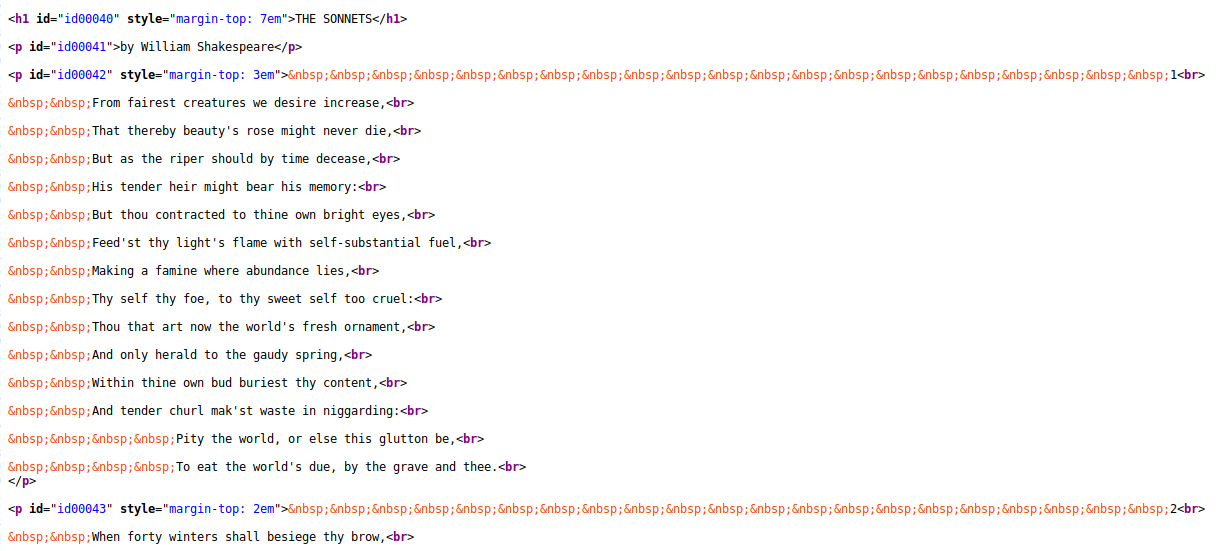
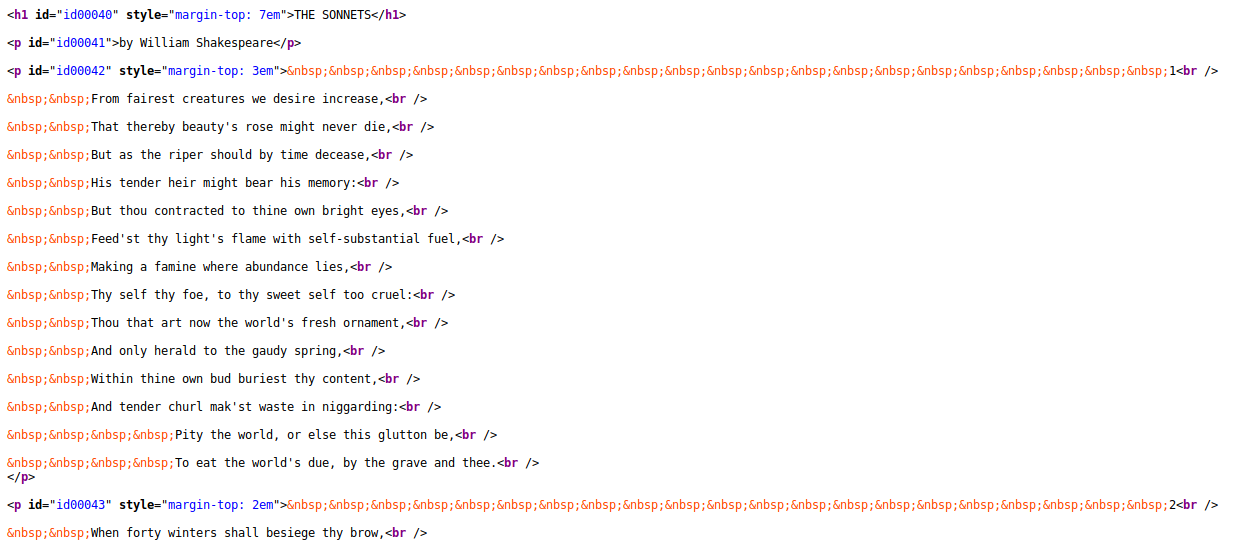
openrefine: edits, screenshot added re @ljlow review

diff --git a/lessons/fetch-and-parse-data-with-openrefine.md b/lessons/fetch-and-parse-data-with-openrefine.md
@@ -20,6 +20,8 @@ Examples introduce some of the advanced features to transform and enhance a data
 - parse HTML and JSON responses to extract relevant data
 - use array functions to manipulate string values
 
+It will be helpful to have basic familiarity with OpenRefine, HTML, and programming concepts to complete this lesson.
+
 ## Why Use OpenRefine?
 
 The ability to create data sets from unstructured documents available on the web opens possibilities for research using digitized primary materials, web archives, texts, and contemporary media streams. 
@@ -65,8 +67,10 @@ Processing a book of poems into structured data enables new ways of reading text
 
 ## Start "Sonnets" Project
 
-Start OpenRefine, select *Create project*, and Get Data From *Clipboard*. 
-Paste this URL into the text box: 
+Start OpenRefine and select *Create project*. 
+Refine can import data from a wide variety of formats and sources, from a local Excel file to web accessible RDF.
+One often over looked method is the *Clipboard*, which allows entering data via copy & paste.
+Click Get Data From *Clipboard*, and paste this URL into the text box: 
 
 ```
 http://programminghistorian.github.io/ph-submissions/assets/fetch-and-parse-data-with-openrefine/pg1105.html
@@ -106,7 +110,7 @@ To make examining the HTML easier, click on the URL in *Column 1* to open the li
 In this case the sonnets page does not have distinctive semantic markup, but each poem is contained inside a single `<p>` element. 
 Thus, if all the paragraphs are selected, the sonnets can be extracted from the array.
 
-{% include figure.html caption="Each sonnet is a \<p\> with lines separated by \<br\>" filename="refine-sonnet-markup.png" %}
+{% include figure.html caption="Each sonnet is a \<p\> with lines separated by \<br /\>" filename="refine-sonnet-markup.png" %}
 
 On the *fetch* column, click on the menu arrow > *edit column* > *Add column based on this column*.
 Give the new column the name `parse`, then click in the *Expression* text box.
@@ -119,27 +123,28 @@ The *Preview* window below the *Expression* box displays the current value on th
 
 The default expression is `value`, the [GREL variable](https://github.com/OpenRefine/OpenRefine/wiki/Variables) representing the current contents of a cell.
 This means that each cell is simply copied to the new column, which is reflected in the *Preview*.
-GREL variables and functions are strung together in sequence using a period, called dot notation, often starting with the raw cell `value`.
+GREL variables and functions are strung together in sequence using a period, called dot notation.
 This allows complex operations to be constructed by passing the results of each function to the next.
 
 GREL's `parseHtml()` function can read HTML content, allowing elements to be accessed using `select()` and the [jsoup selector syntax](https://jsoup.org/cookbook/extracting-data/selector-syntax).
-Starting with variable `value`, add the functions `parseHtml()` and `select("p")` in the *Expression* box using dot notation, resulting in `value.parseHtml().select("p")`.
+Starting with `value`, add the functions `parseHtml()` and `select("p")` in the *Expression* box using dot notation, resulting in `value.parseHtml().select("p")`.
 Do not click *OK* at this point, but look at the *Preview* to see the result of the expression.
 
 {% include figure.html caption="Edit the GREL expression" filename="refine-parse-html.png" %}
 
-Notice that the preview now shows an [array](https://en.wikipedia.org/wiki/Array_data_type) of all the `p` elements found in the page.
+Notice that the output on the right no longer starts with the HTML root elements (`<!DOCTYPE html` etc.) seen on the left.
+Instead, it starts with a square bracket (`[`), displaying an [array](https://en.wikipedia.org/wiki/Array_data_type) of all the `p` elements found in the page.
 Refine represents an array as a comma separated list enclosed in square brackets, for example `[ "one", "two", "three" ]`.
 
 Refine is visual and iterative; it is common to gradually build up an expression while checking the *Preview* to see the result.
 Try the following GREL statements in the *Expression* box without clicking *OK*. 
-Watch the preview window to understand how they function and learn more about the data:
+Watch the preview window to understand how they function and learn about the data's contents:
 
 - Adding an index number to the expression selects one element from the array, for example `value.parseHtml().select("p")[0]`. In the sonnets example, the beginning of the file contains many paragraphs of license information that are unnecessary for the data set. Skipping ahead, the first sonnet is found at `value.parseHtml().select("p")[37]`. 
 - GREL also supports using negative index numbers, thus `value.parseHtml().select("p")[-1]` will return the last item in the array. Working backwards, the last sonnet is at index `[-3]`.
 - Using these index numbers, it is possible to slice the array, extracting only the range of `p` that contain sonnets. Add the `slice()` function to the expression to preview the sub-set: `value.parseHtml().select("p").slice(37,-2)`. 
 
-Clicking *Ok* with the expression `value.parseHtml().select("p").slice(37,-2)` will result in a blank column, a common cause of confusion when working with arrays.
+Clicking *OK* with the expression above will result in a blank column, a common cause of confusion when working with arrays.
 Refine will not store an array object as a cell value. 
 It is necessary to use `toString()` or `join()` to convert the array into a string variable.
 The `join()` function concatenates an array with the specified separator. 
@@ -390,8 +395,11 @@ Click on the *state* column > *Edit cells* > *Fill down*.
 
 This is a good point to clean up the unnecessary columns.
 Click on the *All* column > *Edit columns* > *Re-order / remove columns*.
-Drag all columns except *state* and *items* to the right side, then click *Ok* to remove them. 
-With the original columns removed, both *records* and *rows* will read 20.
+Drag all columns except *state* and *items* to the right side, then click *Ok* to remove them.
+
+{% include figure.html caption="Re-order / remove columns" filename="refine-chronam-reorder.png" %}
+
+*Sanity check:* with the original columns removed, both *records* and *rows* will read 20.
 
 ## Parse JSON Values
 
@@ -407,6 +415,8 @@ Create a new column from *items* for each newspaper metadata element by parsing 
 - text, `value.parseJson()['ocr_eng']`
 
 After the desired information is extracted, the *items* column can be removed using *Edit column* > *Remove this column*. 
+
+{% include figure.html caption="Final ChronAm project columns" filename="refine-chronam-final.png" %}
 
 Each column could be further refined using other GREL transformations.
 For example, to convert *date* to a more readable format, use [GREL date functions](https://github.com/OpenRefine/OpenRefine/wiki/GREL-Date-Functions).
@@ -442,6 +452,8 @@ Return to the "Sonnets" project completed in *[Example 1](#example-1-fetching-an
 If the tab was closed, click *Open* > *Open Project* and find the Sonnets example (Refine saves everything for you!). 
 
 Add a new column based on the *first* column named `sentiment`.
+We will use this window to test out a whole series of expressions, so leave it open until we get to the final iteration of the request.
+
 On the right side of the *Expression* box is a drop down to change the expression language.
 Select *Python / Jython* from the list.
 
@@ -503,7 +515,7 @@ return post.read()
 
 {% include figure.html caption="jython request" filename="refine-jython-request.png" %}
 
-Click *Ok* and the Jython script will run for every row in the column.
+Click *OK* and the Jython script will run for every row in the column.
 The JSON response can then be parsed using the methods demonstrated in *Example 2*.
 Given the small expression window and uniform data, the script above is pragmatically simplified and compressed.
 When Refine is encountering problems, it is better to implement a more complete script with error handling.
@@ -561,11 +573,17 @@ Thus both are optimized for small chunks of modern English language similar to a
 
 Archaic words and phrases contribute significantly to the sonnets' sentiment, yet are unlikely to be given any weight in these models since they are not present in the training data.
 While comparing the metrics is fascinating, neither is likely to produce quality results for this data set.
+Rather than an accurate sentiment, we might be surprised to find a quantifiable dissonance between the sonnet's English and our modern web usage.
+However, a model optimized to Shakespeare's words could be developed using appropriate training data.
+To learn more about classifiers and how to implement one, see Vilja Hulden's PH lesson ["Supervised Classification: The Naive Bayesian Returns to the Old Bailey"](http://programminghistorian.org/lessons/naive-bayesian) or Steven Bird, Ewan Klein, and Edward Loper's ["Learning to Classify Text"](http://www.nltk.org/book/ch06.html) in the [NTLK Book](http://www.nltk.org/book/).
 
 Accessing data and services on the web opens new possibilities and efficiencies for humanities research.
+While powerful, these APIs are often not aimed at scholarship and may not be appropriate or optimized for our inquiries.
+The training data may be incomplete, biased, or secret.
 We should always be asking questions about these aggregations and algorithms, thinking critically about the metrics they are capable of producing. 
 This is not a new technical skill, but an application of the historian's traditional expertise, not unlike interrogating physical primary materials to unravel bias and read between the lines.
-Humanities scholars routinely synthesize and evaluate convoluted sources to reveal important narratives, and must carry that skill into digital realm. 
+Humanities scholars routinely synthesize and evaluate convoluted sources to reveal important narratives, and must carry that skill into digital realm.
+We can critically evaluate algorithms and API services, as well as create new ones more suited to our questions and methods.
 
 With it's unique ability to interactively wrangle data from raw aggregation to analysis, Refine supports exploratory research and a wonderfully fluid and playful approach to data. 
 OpenRefine is a flexible, pragmatic tool that simplifies routine tasks and, when combined with domain knowledge, extends research capabilities.
@@ -573,4 +591,3 @@ OpenRefine is a flexible, pragmatic tool that simplifies routine tasks and, when
 [^huynh]: David Huynh, "Google Refine", Computer-Assisted Reporting Conference 2011, [http://web.archive.org/web/20150528125345/http://davidhuynh.net/spaces/nicar2011/tutorial.pdf](http://web.archive.org/web/20150528125345/http://davidhuynh.net/spaces/nicar2011/tutorial.pdf).
 [^1]: Jacob Perkins, "Sentiment Analysis with Python NLTK Text Classification", [http://text-processing.com/demo/sentiment/](http://text-processing.com/demo/sentiment/).
 [^2]: Vivek Narayanan, Ishan Arora, and Arjun Bhatia, "Fast and accurate sentiment classification using an enhanced Naive Bayes model", 2013, [arXiv:1305.6143](https://arxiv.org/abs/1305.6143).
-
